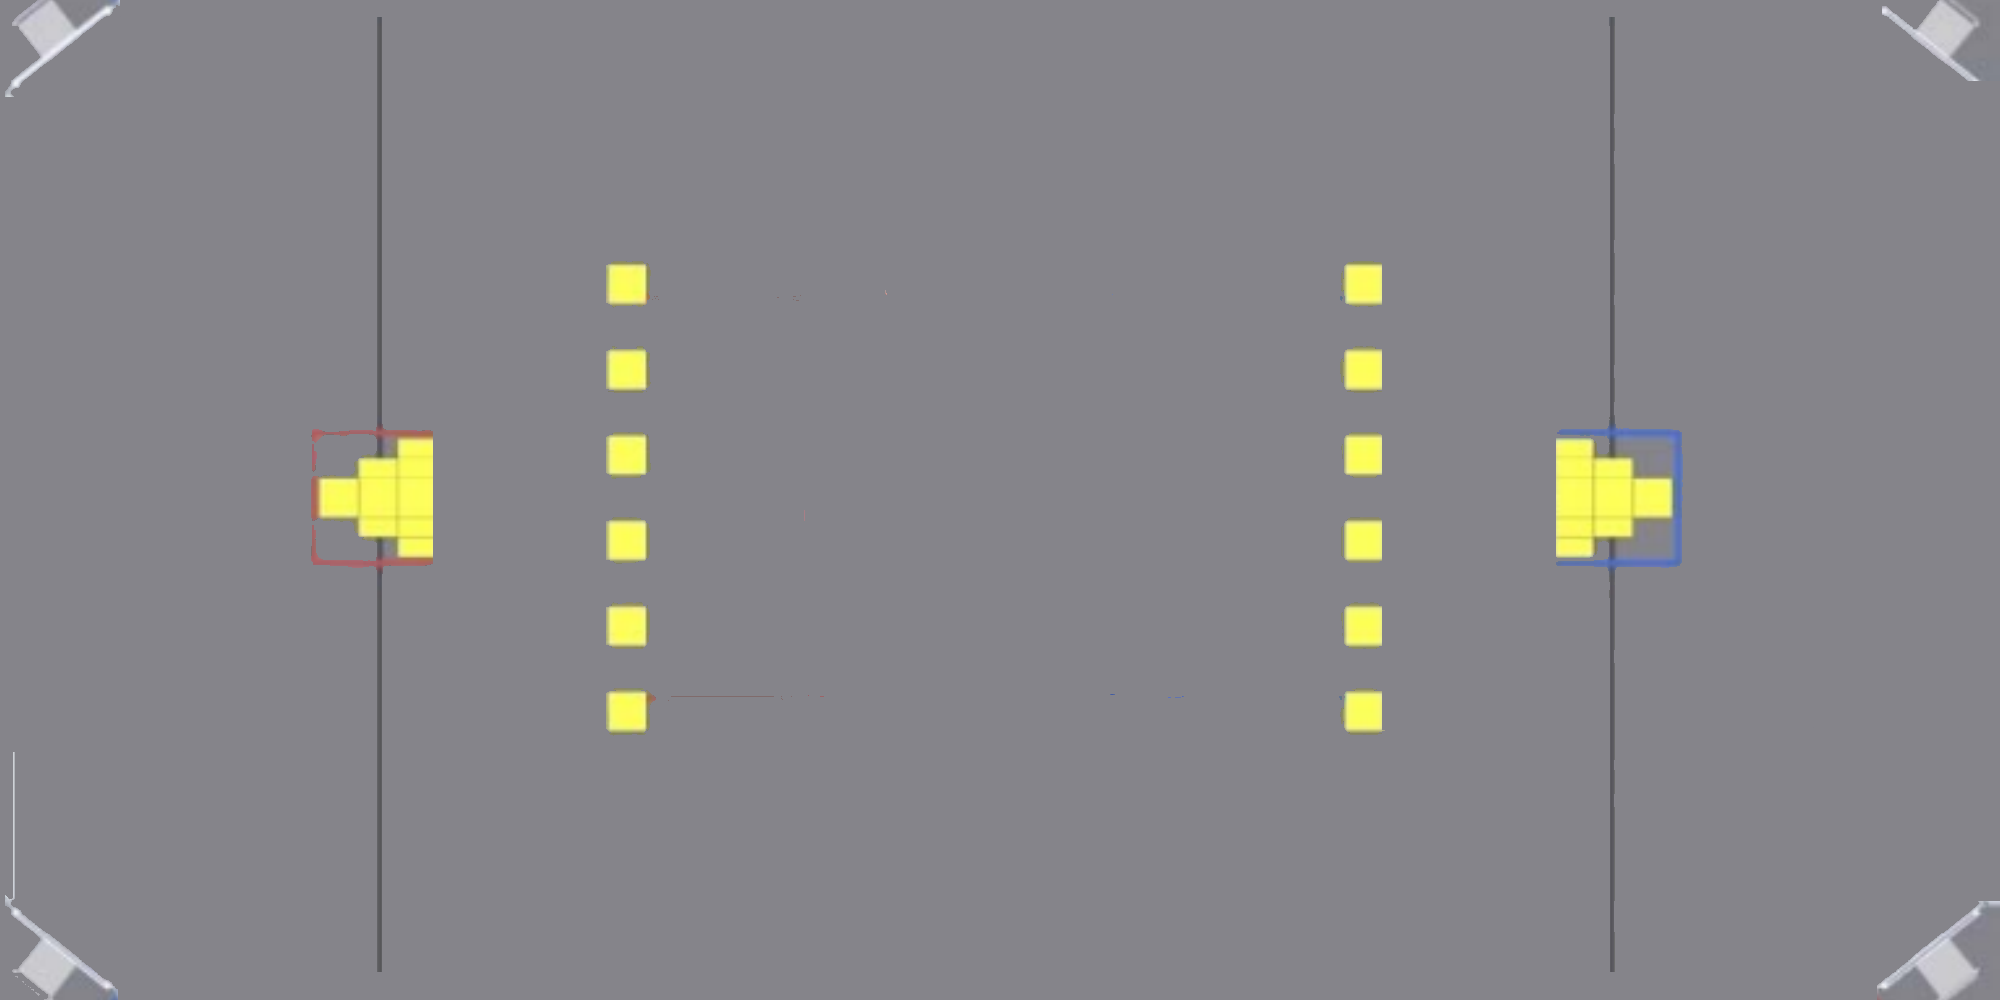
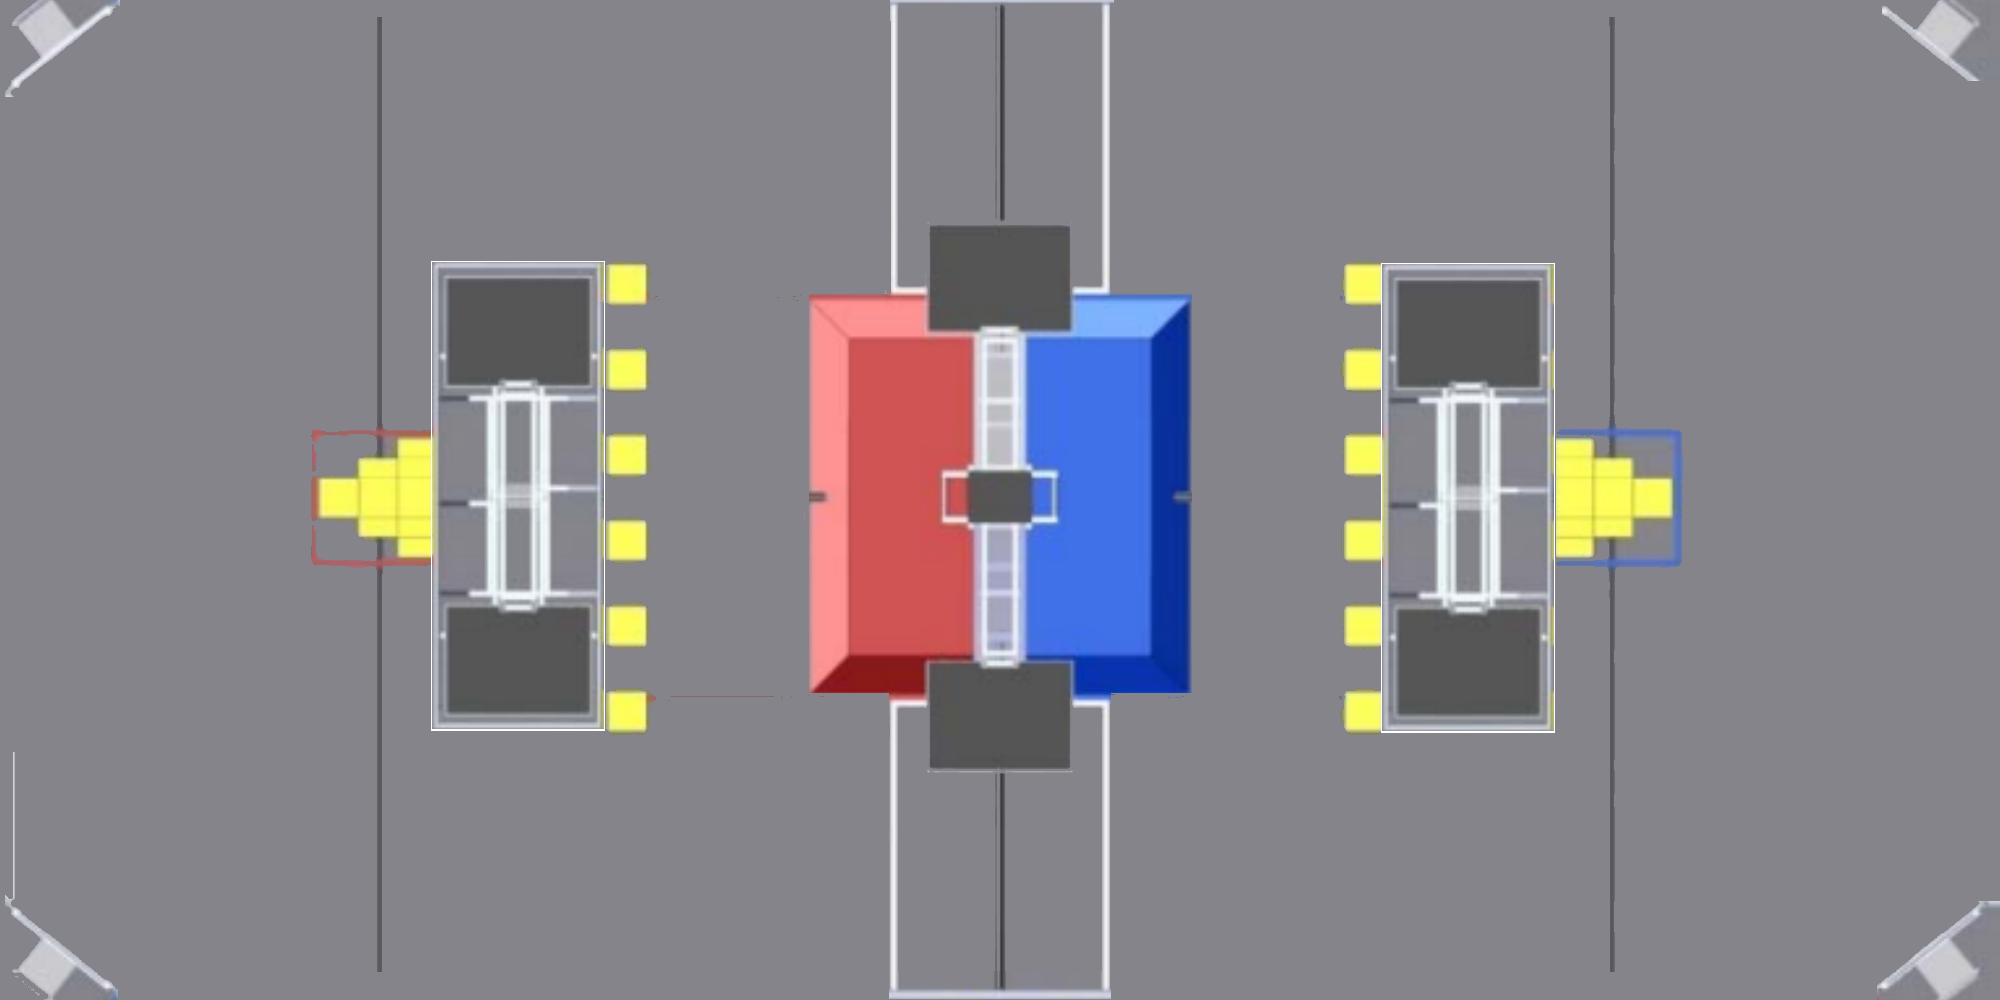
added wheels path draw

Changed region(s): [[0.403, 0.0, 0.62, 1.0], [0.682, 0.248, 0.775, 0.744], [0.217, 0.248, 0.31, 0.744]]

diff --git a/static/js/home.js b/static/js/home.js
@@ -6,14 +6,22 @@ var pixel_meters;
 
 const default_data = [{"path_points":[],"scalars_x":[null], "scalars_y":[null]}]
 
-var parsed_data = [default_data]; //stores all the data got from python 
+var parsed_data  = [default_data]; //stores all the data got from python 
 var data_version = 0; //stores current data version
-var new_solve = true; //whether there is data or not
+var new_solve    = true; //whether there is data or not
+
+var robot_width  = 0.6 //Meters 
+var robot_height = 0.8 //Meters
 
 const point_size = 5;
-const path_size = 1;
-const real_field_width = 16; //Meters
+const path_size  = 1;
+
+const real_field_width  = 16; //Meters
 const real_field_height = 8; //Meters
+
+function get_data () {
+  return(parsed_data[data_version]);
+}
 
 function get_points () {
   var points_elements = document.getElementsByClassName("point");
@@ -29,17 +37,87 @@ function get_points () {
   return points
 }
 
+function draw_robot () {
+  let previous = ctx.globalCompositeOperation;
+  ctx.globalCompositeOperation = "destination-over";
+
+  let translation = position.translation;
+
+  ctx.translate(translation.drawX, translation.drawY);
+  ctx.rotate(-heading);
+
+  let w = robotWidth * (width / fieldWidth);
+  let h = robotHeight * (height / fieldHeight);
+  ctx.fillStyle = color || "rgba(0, 0, 0, 0)";
+  ctx.fillRect(-h / 2, -w / 2, h, w);
+
+  ctx.rotate(heading);
+  ctx.translate(-translation.drawX, -translation.drawY);
+
+  ctx.globalCompositeOperation = previous;
+}
+
 function draw_path (points){
   ctx.beginPath();
-  ctx.moveTo(0,0);
-  for (var i = 0; i < points.length; i++){
+  
+  var inc = 2; 
+  for (var i = 0; i < points.length - inc; i+=inc){
+    var val = parseInt(i*100/points.length);
+    color = "rgba(200,200,200,1)";
+    ctx.fillStyle = color;
+    ctx.beginPath();
+    
+    let x = points[i]["x"];
+    let y = points[i]["y"];
+    let x1 = points[i+inc]["x"];
+    let y1 = points[i+inc]["y"];
+
+    let alpha = Math.atan2((y1-y),(x1-x));
+    
+    x = x + Math.cos(alpha)*robot_height/2;
+    y = y + Math.sin(alpha)*robot_height/2;
+
+    let xr = Math.cos(alpha+Math.PI/2)*robot_width/2 + x;
+    let yr = Math.sin(alpha+Math.PI/2)*robot_width/2 + y;
+    
+    let xl = Math.cos(alpha-Math.PI/2)*robot_width/2 + x;
+    let yl = Math.sin(alpha-Math.PI/2)*robot_width/2 + y;
+
+    ctx.arc (xr*pixel_meters, yr*pixel_meters, path_size, 0, 2*Math.PI);
+    ctx.arc (xl*pixel_meters, yl*pixel_meters, path_size, 0, 2*Math.PI);
+    ctx.fill();
+    
+    color = "rgba(100,100,100,1)";
+    ctx.fillStyle = color;
+
+    x = points[i]["x"];
+    y = points[i]["y"];
+    
+    x = x + Math.cos(alpha+Math.PI)*robot_height/2;
+    y = y + Math.sin(alpha+Math.PI)*robot_height/2;
+
+    xr = Math.cos(alpha+Math.PI/2)*robot_width/2 + x;
+    yr = Math.sin(alpha+Math.PI/2)*robot_width/2 + y;
+    
+    xl = Math.cos(alpha-Math.PI/2)*robot_width/2 + x;
+    yl = Math.sin(alpha-Math.PI/2)*robot_width/2 + y;
+
+    ctx.beginPath();
+    ctx.arc (xr*pixel_meters, yr*pixel_meters, path_size, 0, 2*Math.PI);
+    ctx.arc (xl*pixel_meters, yl*pixel_meters, path_size, 0, 2*Math.PI);
+    ctx.fill();
+  }
+
+  for (var i = 0; i < points.length; i+=inc){
     var val = parseInt(i*100/points.length);
     color = "hsl("+val+",100%,60%)";
     ctx.fillStyle = color;
     ctx.beginPath();
-    ctx.arc (points[i]["x"]*pixel_meters, points[i]["y"]*pixel_meters,path_size, 0, 2*Math.PI);
+    ctx.arc (points[i]["x"]*pixel_meters, points[i]["y"]*pixel_meters, path_size, 0, 2*Math.PI);
     ctx.fill();
   }
+
+
   ctx.closePath();
 }
 
@@ -69,10 +147,6 @@ function init_field() {
   };
   field_img.src = 'static/img/field_background.png';
   pixel_meters = field_canvas.width/real_field_width;
-}
-
-function get_data () {
-  return(parsed_data[data_version]);
 }
 
 function draw_field() {

diff --git a/static/css/bootflat.css b/static/css/bootflat.css
@@ -208,8 +208,8 @@ blockquote {
   border-color: #0045a5;
 }
 .btn-primary:hover, .btn-primary:focus {
-  background-color: #0065b5;
-  border-color: #0065b5;
+  background-color: #2158a6;
+  border-color: #2158a6;
 }
 .open .dropdown-toggle.btn-primary {
   background-color: #0045a5;
@@ -2772,6 +2772,18 @@ a.list-group-item-danger.active, a.list-group-item-danger:hover, a.list-group-it
   width: 6px;
   -webkit-box-shadow: inset 0 0 6px rgba(0, 0, 0, 0.3);
   background-color: #0045a5; }
+
+.scrollbar-primary::-webkit-scrollbar-thumb:hover {
+  border-radius: 5px;
+  width: 6px;
+  -webkit-box-shadow: inset 0 0 6px rgba(0, 0, 0, 0.3);
+  background-color: #2158a6; }
+
+.scrollbar-primary::-webkit-scrollbar-thumb:active {
+  border-radius: 5px;
+  width: 6px;
+  -webkit-box-shadow: inset 0 0 6px rgba(0, 0, 0, 0.7);
+  background-color: #2158a6; }
 
 .lds-ellipsis {
   display: inline-block;

diff --git a/main.js b/main.js
@@ -4,11 +4,12 @@ const python_script = "path_finder.py";
 
 // Keep a global reference of the window object, if you don't, the window will
 // be closed automatically when the JavaScript object is garbage collected.
-let mainWindow
+let mainWindow;
+var path = require('path');
 
 function createWindow () {
   // Create the browser window.
-  mainWindow = new BrowserWindow({width: 1200, height: 800})
+  mainWindow = new BrowserWindow({width: 1200, height: 800, icon: path.join(__dirname, 'static/img/favicon64.png')})
 
   // and load the index.html of the app.
   mainWindow.loadFile('index.html')

diff --git a/index.html b/index.html
@@ -7,7 +7,7 @@
         <link rel="icon" href="static/img/favicon.ico">
     </head>
 
-    <body onload='init_field()'>
+    <body onload='init_field()' style="background-color: #EEE">
     <div class="container">
         <div class="jumbotron">
             <div class="jumbotron-header" style="text-align: center">

diff --git a/Python/path_finder.py b/Python/path_finder.py
@@ -81,8 +81,8 @@ class path_finder(object):
         self.HIGHEST_POLYNOM = val
     
     def update_costs_weights (self, params):
-        self.POS_COST         = params.get("pos", 60000)*60000
-        self.ANGLE_COST       = params.get("angle", 6000)*6000
+        self.POS_COST         = params.get("pos", 60000)*600000
+        self.ANGLE_COST       = params.get("angle", 6000)*600000
         self.RADIUS_COST      = params.get("radius", 50)*50 
         self.RADIUS_CONT_COST = params.get("radius_cont", 10)*10
         self.LENGTH_COST      = params.get("length", 0)*0.00001
@@ -153,7 +153,7 @@ class path_finder(object):
             cost += (self.x(index, self.MAX) - self.points[index + 1].x) ** 2
             cost += (self.y(index, self.MIN) - self.points[index].y) ** 2
             cost += (self.y(index, self.MAX) - self.points[index + 1].y) ** 2
-        return cost/(amount_of_points * 4)
+        return cost/((amount_of_points+1) * 4)
 
     def get_angle_costs(self):
         cost = 0.
@@ -163,7 +163,7 @@ class path_finder(object):
             end_angle = math.atan2(self.dyds(index, self.MAX), self.dxds(index, self.MAX))
             cost += (self.delta_angle(start_angle, self.points[index].angle)) ** 2
             cost += (self.delta_angle(end_angle, self.points[index + 1].angle)) ** 2
-        return cost / (amount_of_points * 2)
+        return cost / ((amount_of_points+1) * 2)
     
     def get_radius_cost(self):
         cost = 0
